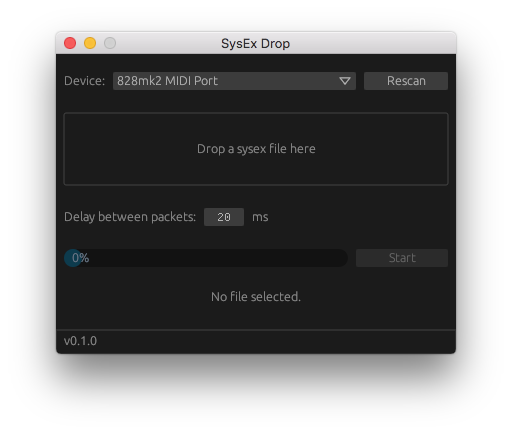
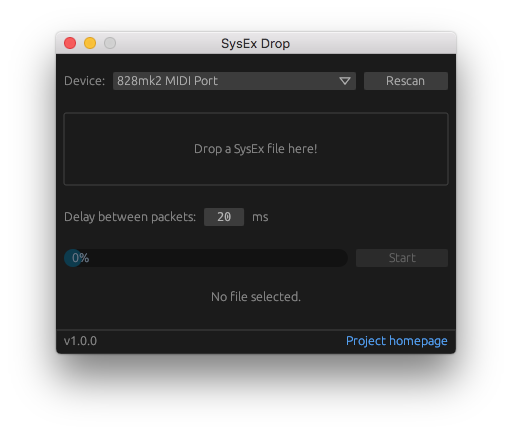
Version bump to 1.0.0

diff --git a/CHANGELOG.md b/CHANGELOG.md
@@ -7,6 +7,10 @@ and this project adheres to [Semantic Versioning](https://semver.org/spec/v2.0.0
 
 ## [Unreleased]
 
+## [1.0.0] - 2021-10-31
+
+First stable release.
+
 ## [0.1.0] - No date specified
 
-Initial development release for internal use only.
+Development release for initial testing.
